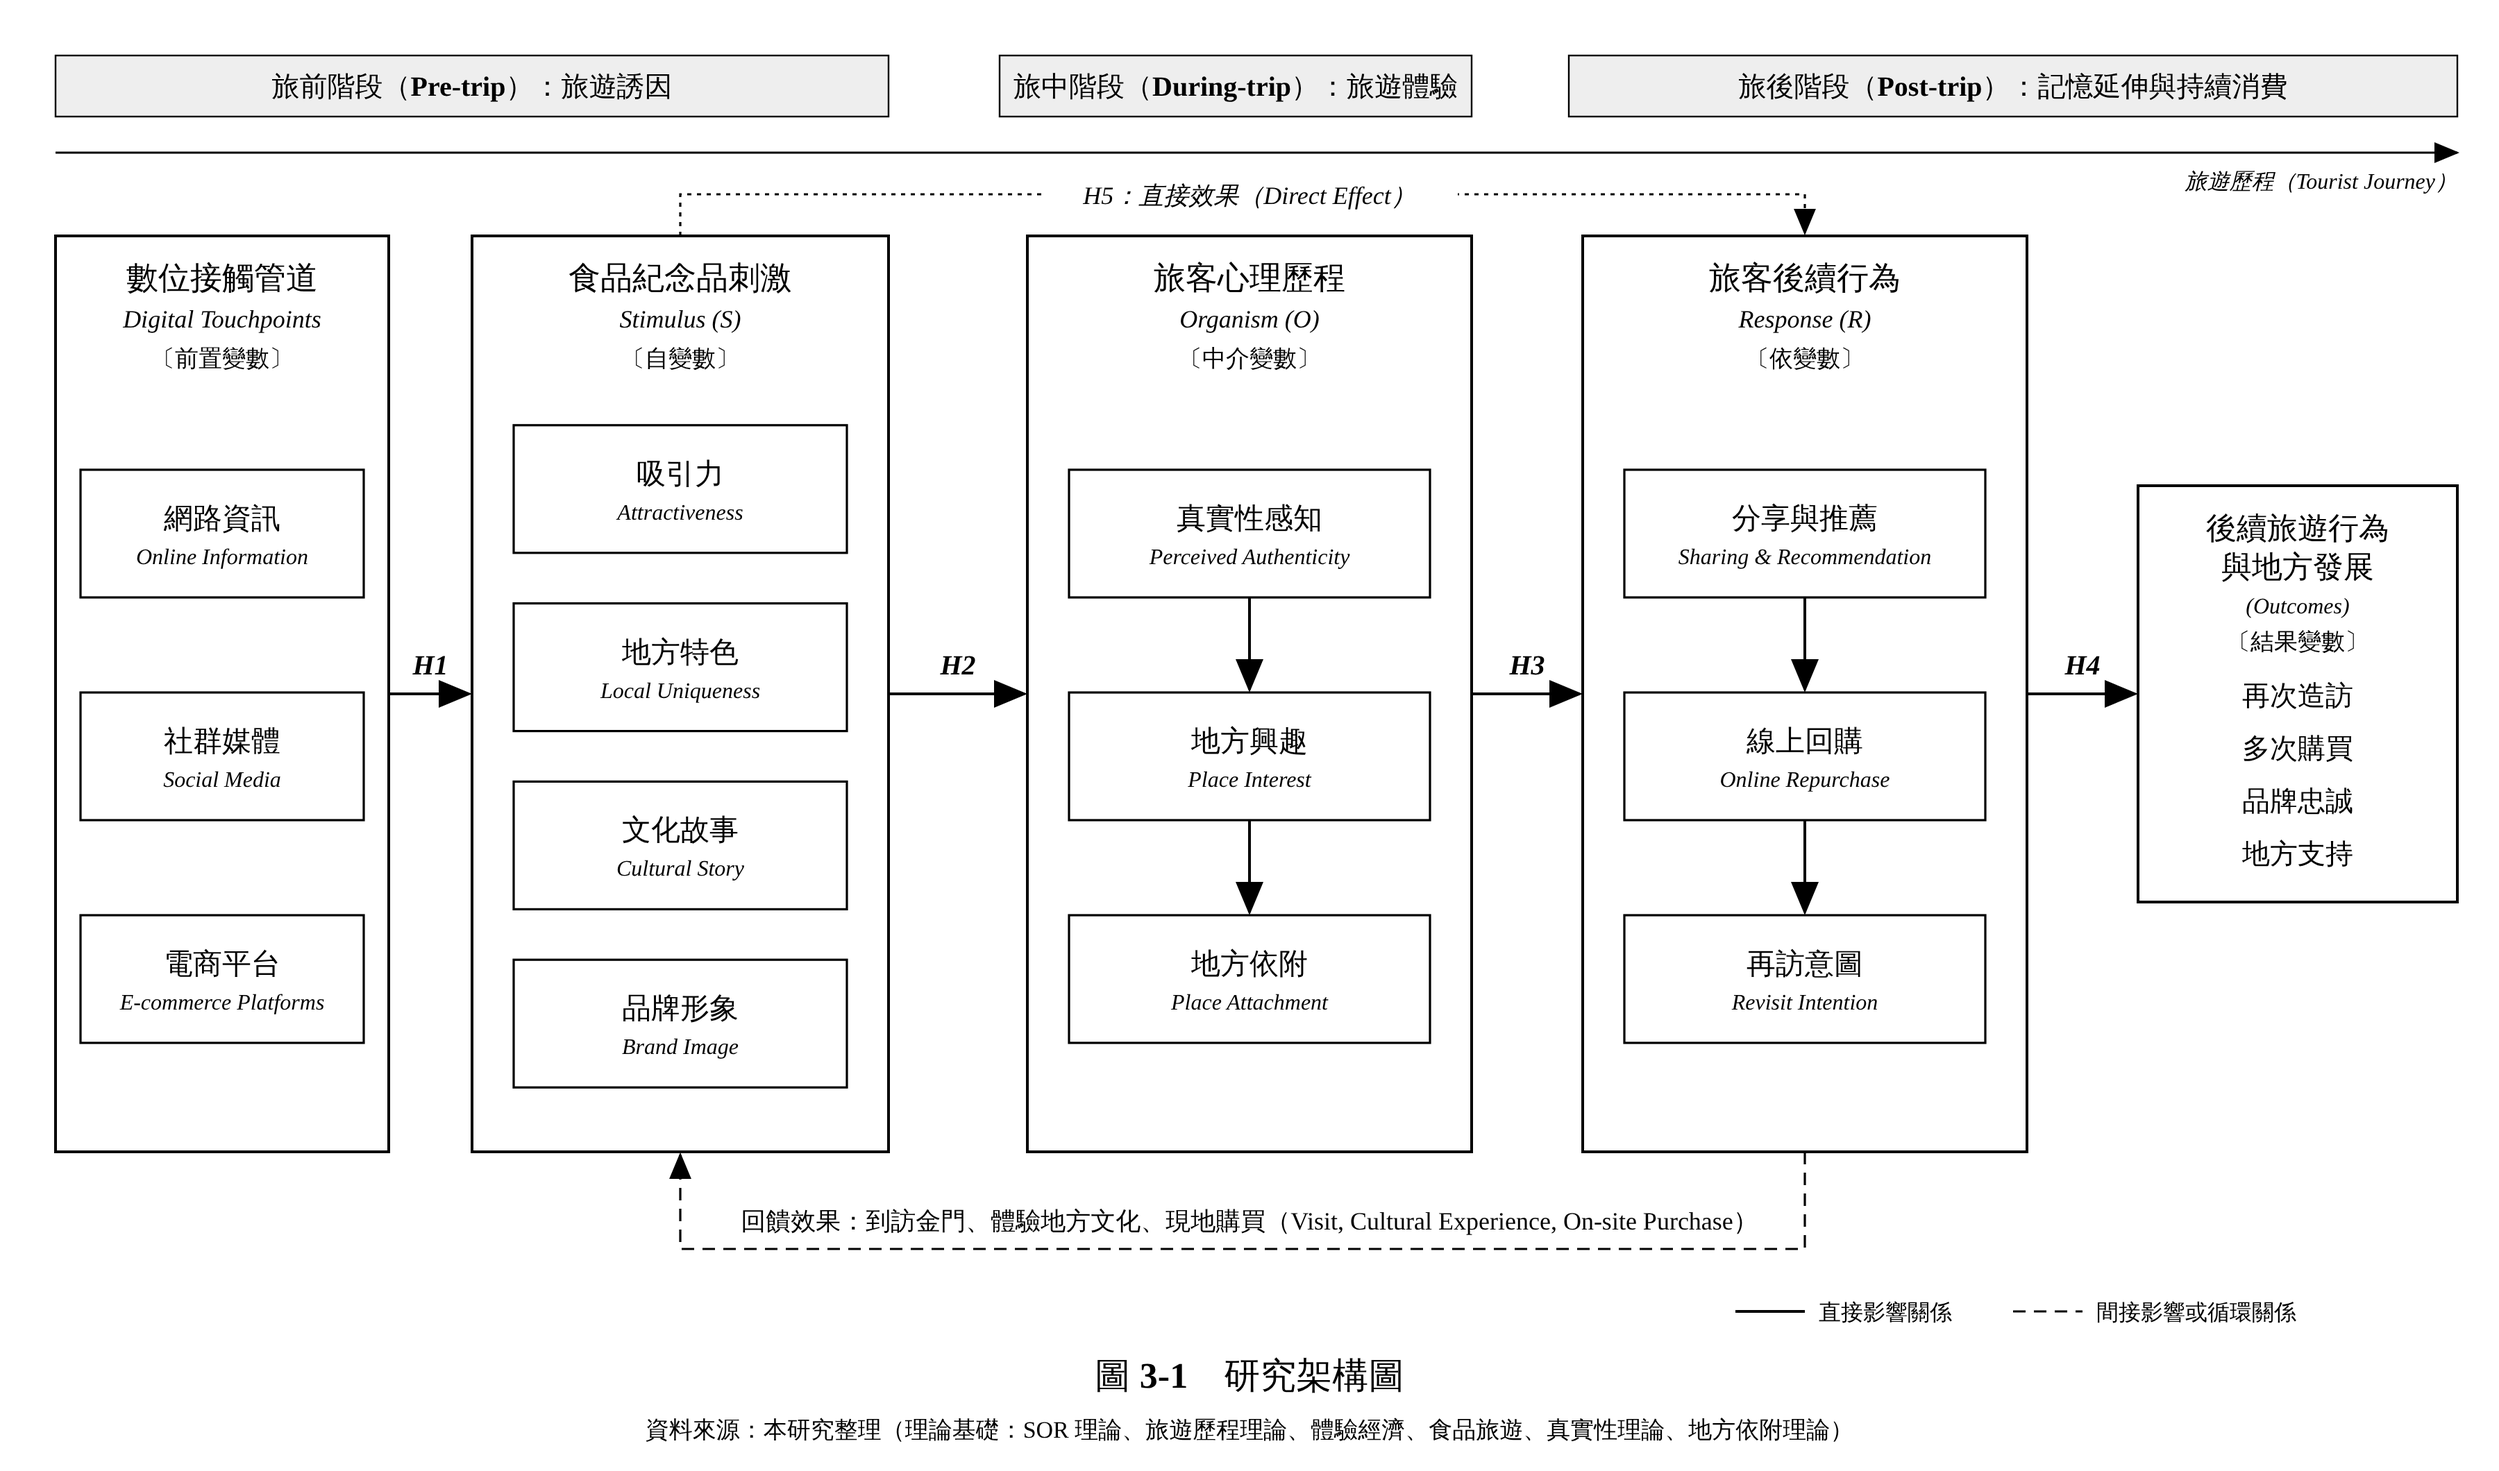
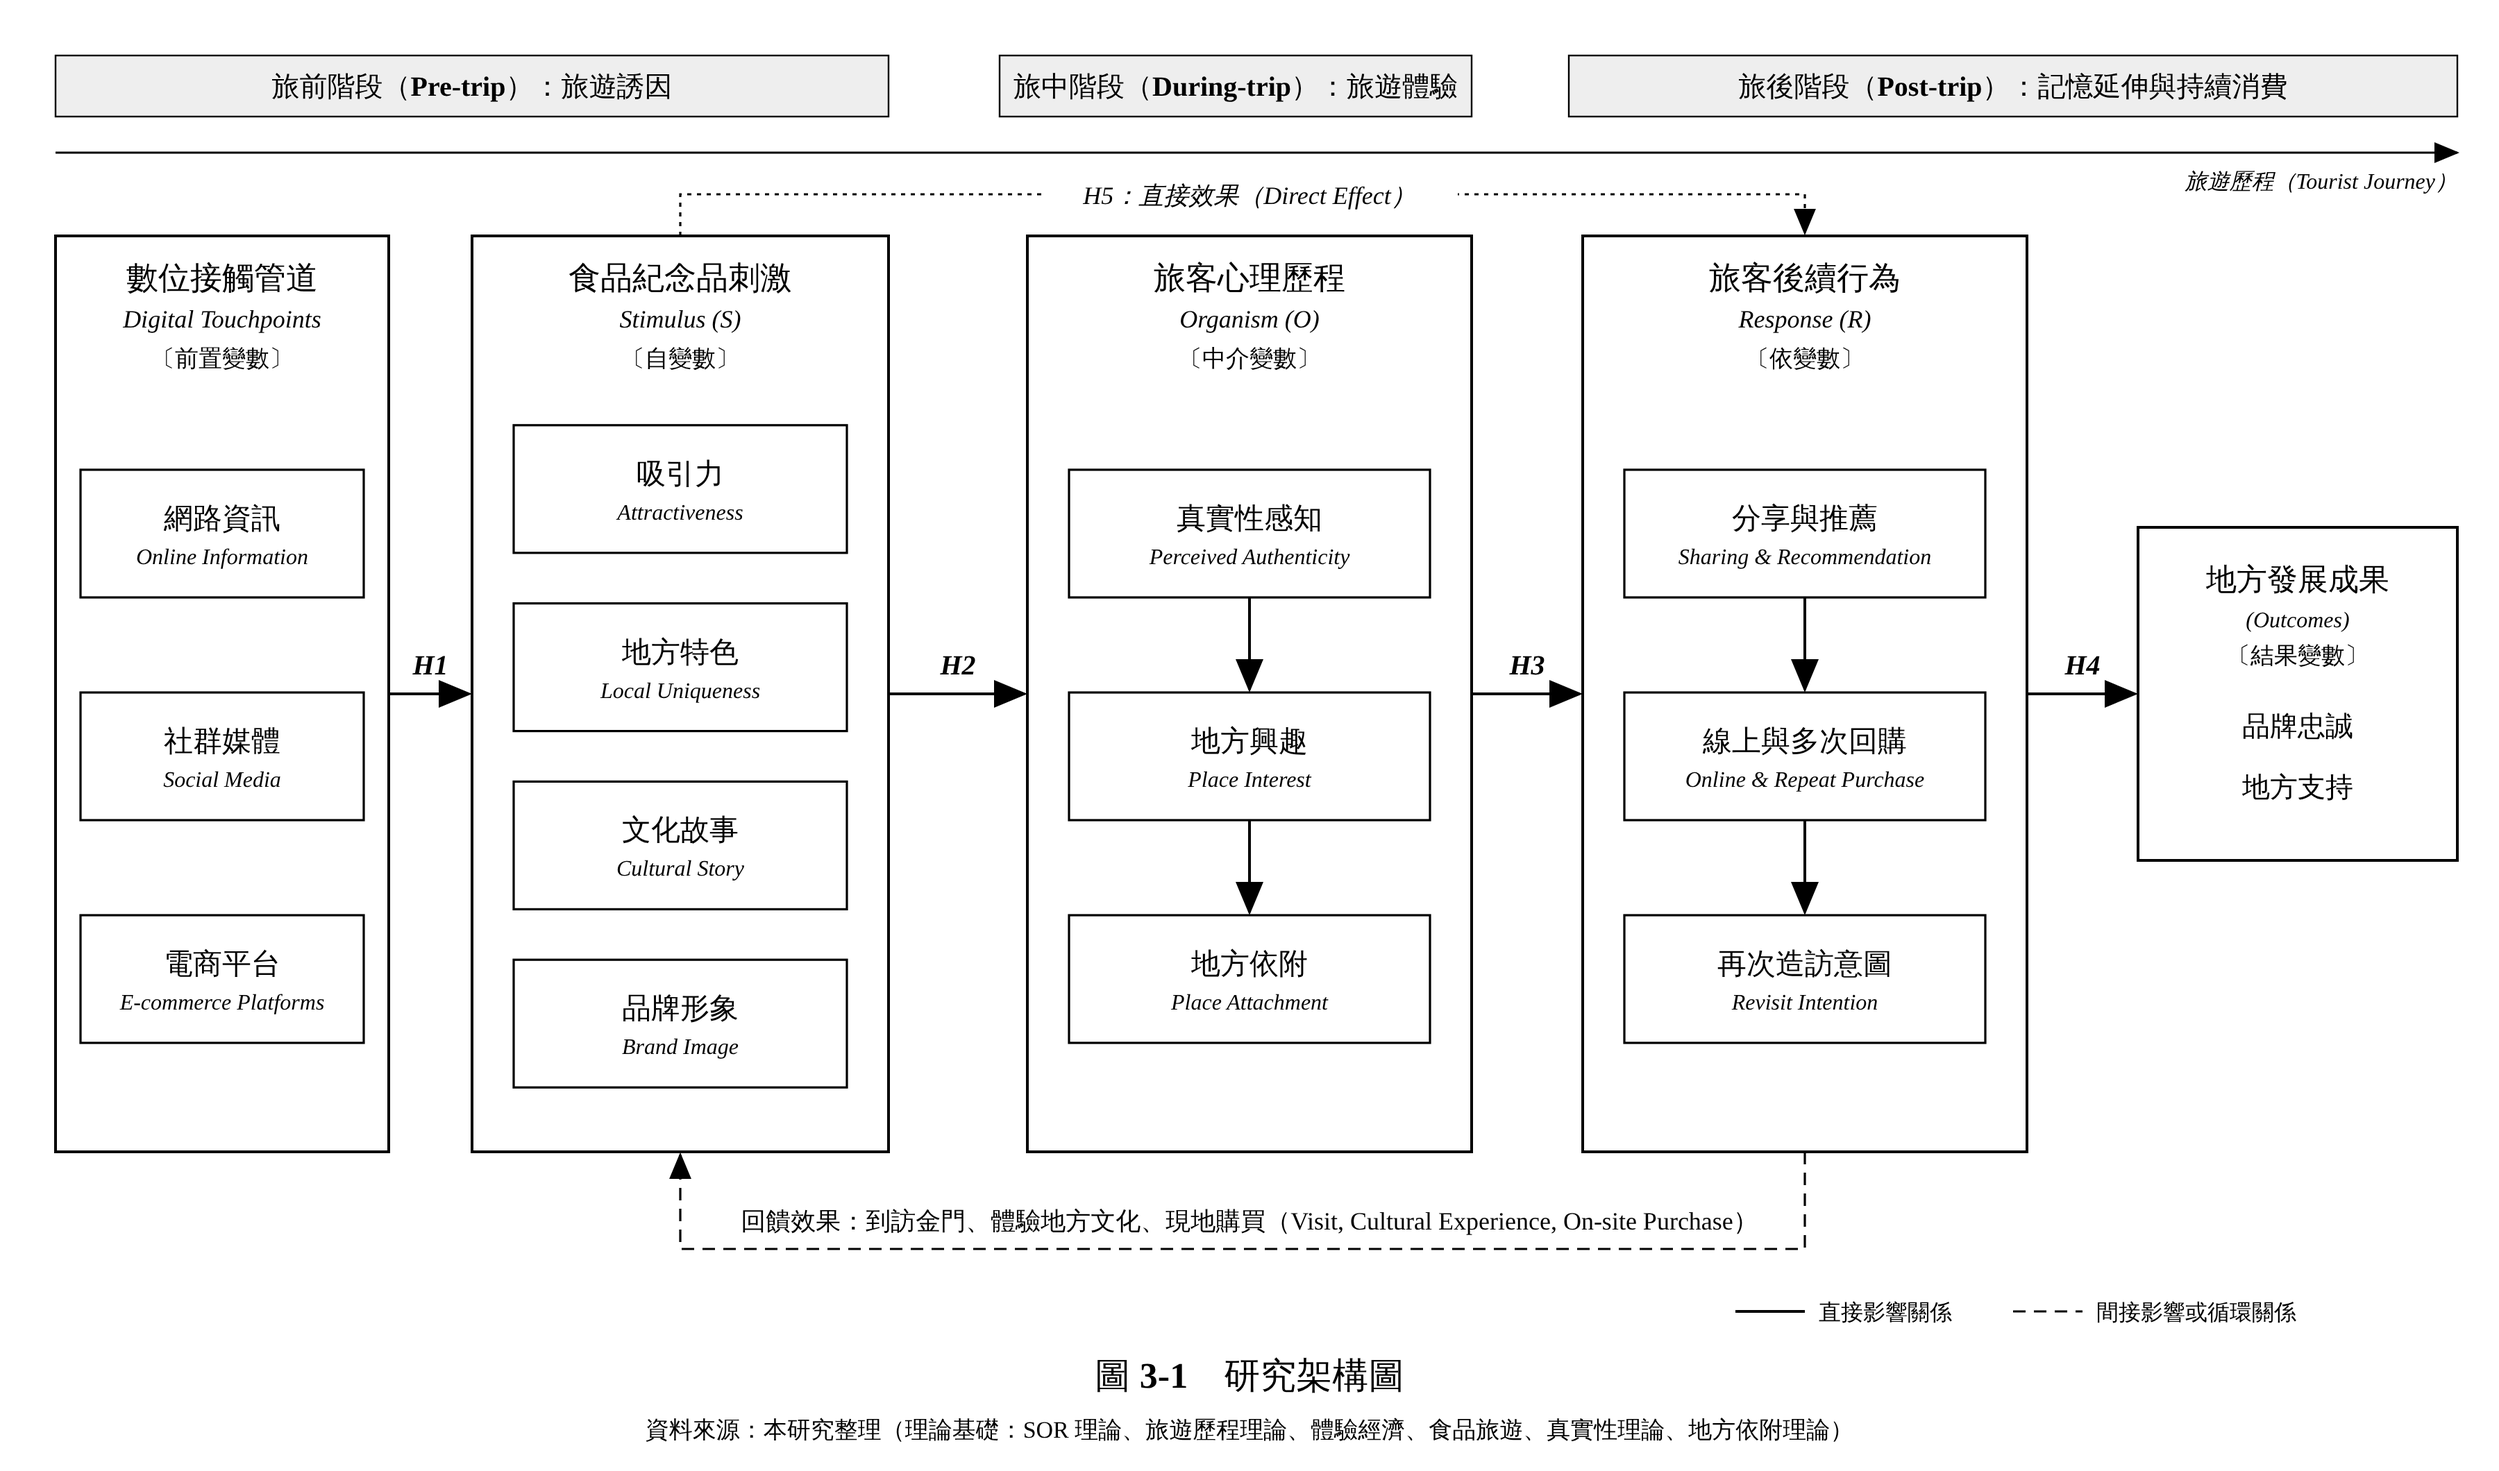
Merge revisit and repeat purchase into post-trip response construct
Claude-Session: https://claude.ai/code/session_011LEWBdDbjvikSYiUgKkdrc

Changed region(s): [[0.8711, 0.3425, 0.9644, 0.5915], [0.6844, 0.6226, 0.7467, 0.6849], [0.6844, 0.4981, 0.7778, 0.5604]]

diff --git a/research-framework/build.py b/research-framework/build.py
@@ -80,20 +80,19 @@ for (t, b), (t2, _) in zip(op, op[1:]):
 # R
 rx, rw = 1140, 320
 rp = construct(rx, rw, "旅客後續行為", "Response (R)",
-               [("分享與推薦", "Sharing &amp; Recommendation"), ("線上回購", "Online Repurchase"),
-                ("再訪意圖", "Revisit Intention")], "依變數")
+               [("分享與推薦", "Sharing &amp; Recommendation"), ("線上與多次回購", "Online &amp; Repeat Purchase"),
+                ("再次造訪意圖", "Revisit Intention")], "依變數")
 for (t, b), (t2, _) in zip(rp, rp[1:]):
     arrow(rx + rw / 2, b, rx + rw / 2, t2 - 2)
 
-# 結果：後續旅遊行為與地方發展
+# 結果：地方發展成果（再次造訪、多次購買已整合至旅後 R 構面）
 fx, fw = 1540, 230
-box(fx, 350, fw, 300, sw=2)
-text(fx + fw / 2, 388, "後續旅遊行為", 22, "bold")
-text(fx + fw / 2, 416, "與地方發展", 22, "bold")
-text(fx + fw / 2, 442, "(Outcomes)", 16, style="italic")
-text(fx + fw / 2, 468, "〔結果變數〕", 17)
-for i, s in enumerate(["再次造訪", "多次購買", "品牌忠誠", "地方支持"]):
-    text(fx + fw / 2, 508 + i * 38, s, 20)
+box(fx, 380, fw, 240, sw=2)
+text(fx + fw / 2, 425, "地方發展成果", 22, "bold")
+text(fx + fw / 2, 452, "(Outcomes)", 16, style="italic")
+text(fx + fw / 2, 478, "〔結果變數〕", 17)
+for i, s in enumerate(["品牌忠誠", "地方支持"]):
+    text(fx + fw / 2, 530 + i * 44, s, 20)
 
 mid = (Y0 + Y1) / 2
 arrow(cx + cw, mid, sx - 2, mid); hyp((cx + cw + sx) / 2, mid - 14, "H1")
